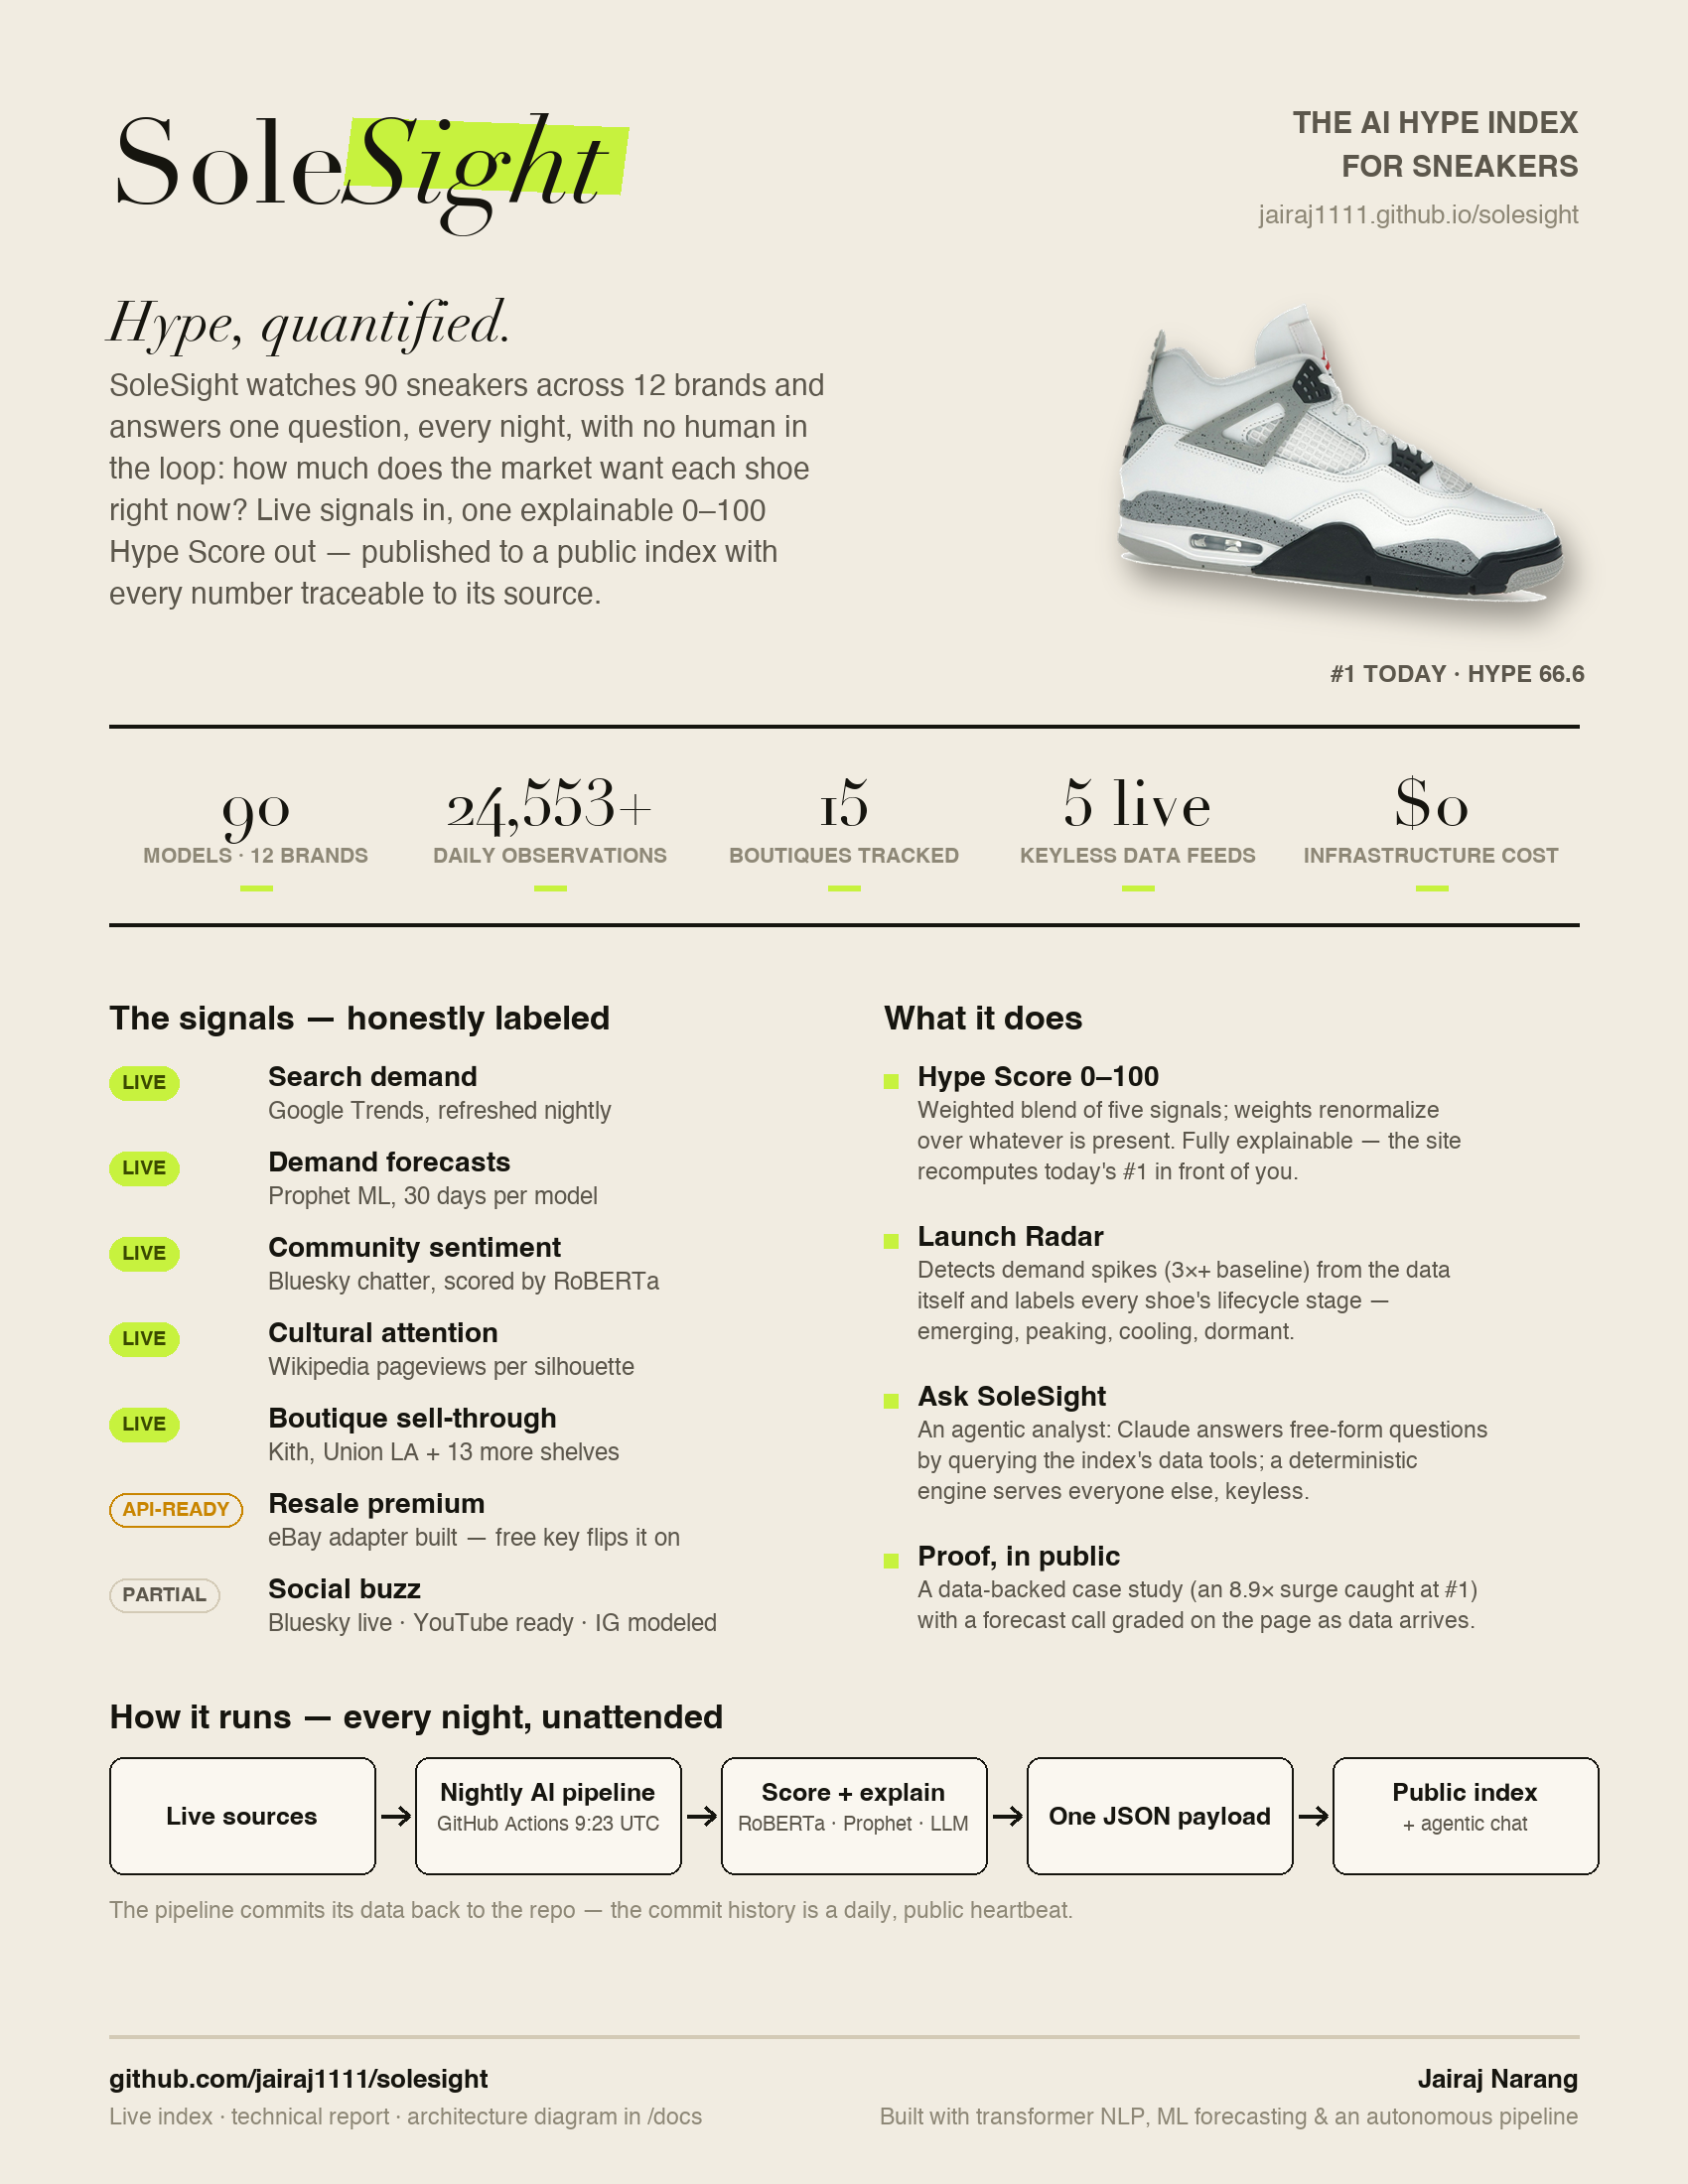
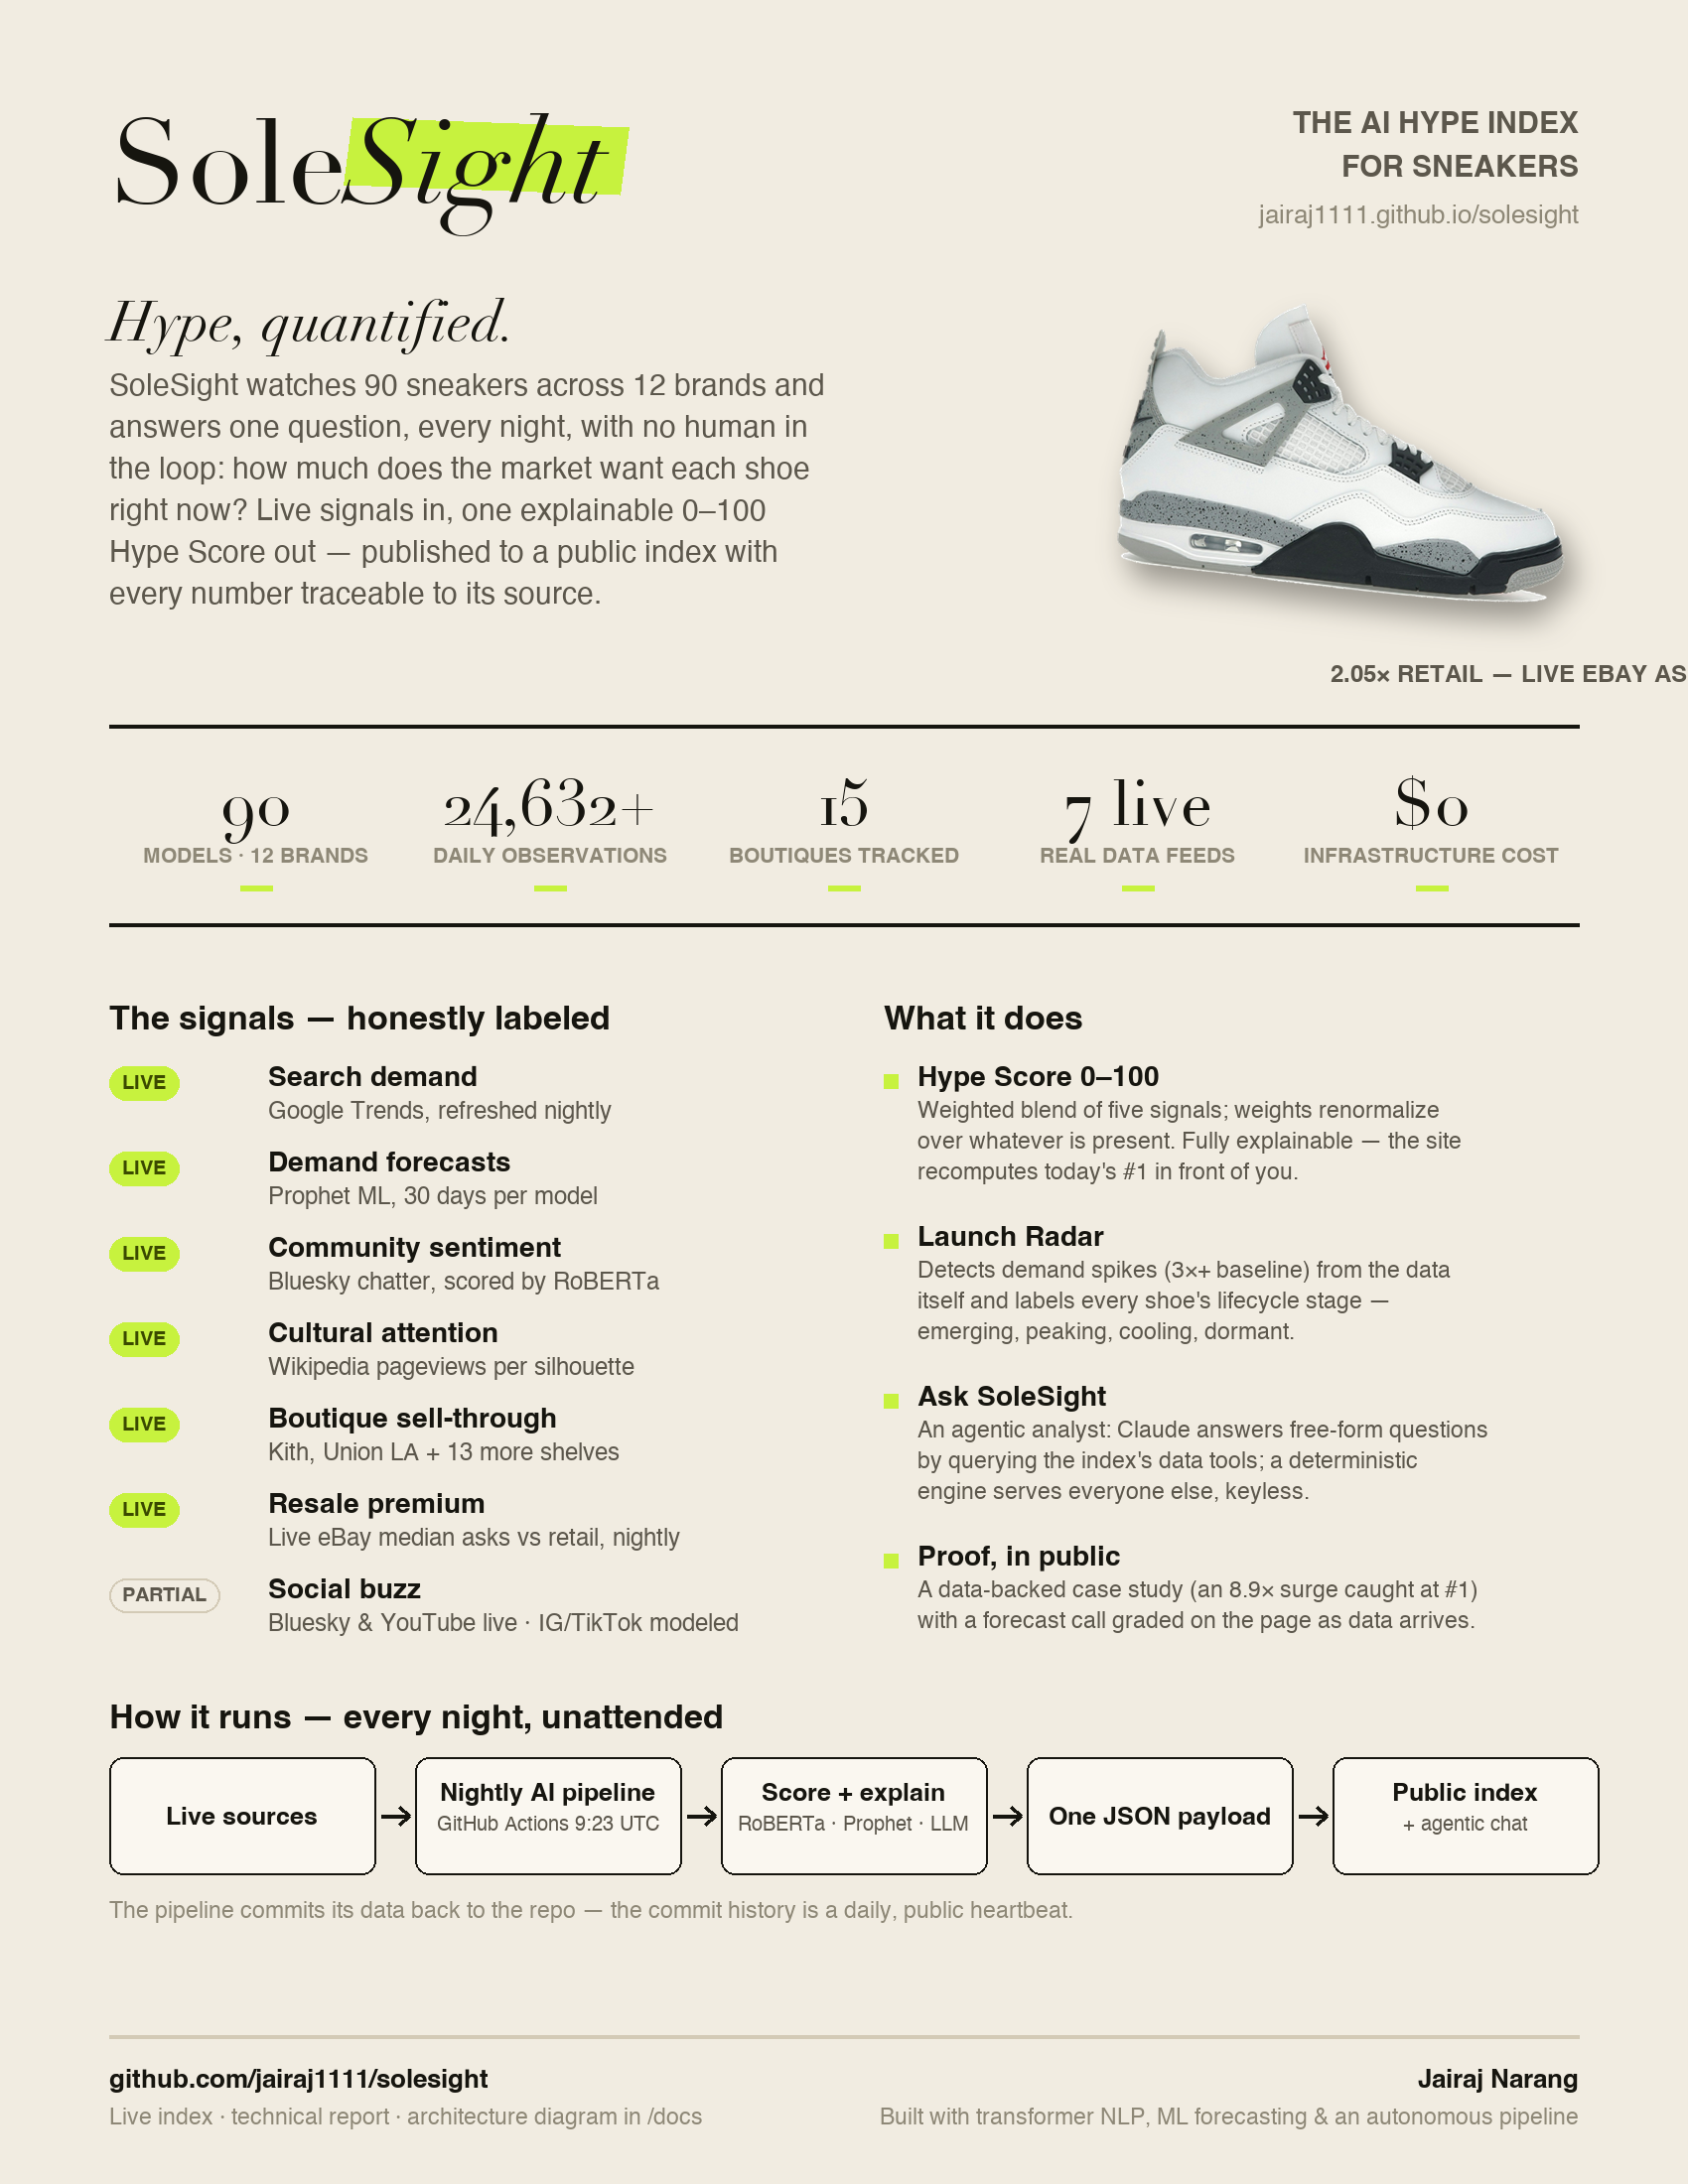
Resale + YouTube go LIVE: real eBay asks and YouTube buzz across all 90 models
First key-powered run: 90/90 real eBay median asks (Travis Scott AJ1 High
$637 vs $175 retail), 603 real YouTube buzz rows; synthetic rows for both
sources auto-purged. Method badges, footer, README table, one-pager and
flow diagram updated to match.

diff --git a/web/index.html b/web/index.html
@@ -149,9 +149,9 @@
         <span class="sig-badge modeled">modeled</span> synthesized from real
         search momentum pending a viable API.</p>
       <div class="method-grid">
-        <div class="method-card reveal"><span class="mc-w">26%</span><span class="sig-badge api">api-ready</span><h3>Resale premium</h3><p>Median sale vs. retail across marketplaces — the market's dollar vote.</p></div>
+        <div class="method-card reveal"><span class="mc-w">26%</span><span class="sig-badge live">live</span><h3>Resale premium</h3><p>Median ask vs. retail from <em>live eBay listings</em>, nightly — the market's dollar vote.</p></div>
         <div class="method-card reveal"><span class="mc-w">24%</span><span class="sig-badge live">live</span><h3>Search momentum</h3><p>Google Trends interest, last 14 days vs. the prior 14 — movement within each model's own history.</p></div>
-        <div class="method-card reveal"><span class="mc-w">20%</span><span class="sig-badge part">partial</span><h3>Social buzz</h3><p>Bluesky mentions <em>live &amp; keyless</em>; YouTube api-ready; IG/TikTok modeled.</p></div>
+        <div class="method-card reveal"><span class="mc-w">20%</span><span class="sig-badge part">partial</span><h3>Social buzz</h3><p>Bluesky and YouTube <em>live</em>; Instagram/TikTok modeled (no viable APIs).</p></div>
         <div class="method-card reveal"><span class="mc-w">18%</span><span class="sig-badge live">live</span><h3>Search intensity</h3><p>Current interest relative to <em>that model's own</em> historical peak — never compared across models.</p></div>
         <div class="method-card reveal"><span class="mc-w">12%</span><span class="sig-badge live">live</span><h3>Community mood</h3><p>Transformer sentiment over live Bluesky chatter; Reddit joins with a free key.</p></div>
       </div>
@@ -190,8 +190,8 @@
     <p>AI-powered sneaker &amp; streetwear consumer intelligence — transformer
       NLP, machine-learning forecasting, LLM-ready insight generation · an
       autonomous pipeline refreshes nightly: live Google&nbsp;Trends demand &amp;
-      forecasts, live Bluesky community chatter, live Wikipedia attention and
-      boutique availability · resale &amp; Reddit go live with free API keys ·
+      forecasts, live Bluesky &amp; YouTube chatter, live eBay resale asks, live Wikipedia
+      attention and boutique availability · Reddit joins with a free key ·
       IG/TikTok buzz is modeled.</p>
   </footer>
 

diff --git a/README.md b/README.md
@@ -131,10 +131,10 @@ Every stage degrades gracefully, so the platform is honest about what's real:
 | Community chatter + sentiment | Bluesky public search | **Live** (nightly) | nothing — no key needed |
 | Cultural attention | Wikipedia pageviews | **Live** (nightly) | nothing — no key needed |
 | Boutique availability | Shopify public product feeds (6 stores) | **Live**, best-effort | nothing — no key needed |
-| Social buzz (YouTube) | YouTube Data API v3 | api-ready | free key → `YOUTUBE_API_KEY` |
+| Social buzz (YouTube) | YouTube Data API v3 | **Live** (nightly) | done ✓ |
 | Demand forecast | Prophet on trends | **Live** (nightly) | nothing |
 | Community sentiment | Reddit API | Synthetic until keys set | free app at [reddit.com/prefs/apps](https://www.reddit.com/prefs/apps) → `REDDIT_CLIENT_ID` / `REDDIT_CLIENT_SECRET` / `REDDIT_USER_AGENT` |
-| Resale (ask-side) | eBay Browse API | Synthetic until keys set | free keyset at [developer.ebay.com](https://developer.ebay.com) → `EBAY_CLIENT_ID` / `EBAY_CLIENT_SECRET` |
+| Resale (ask-side) | eBay Browse API — median asks, decile-trimmed | **Live** (nightly) | done ✓ |
 | Resale (sold) | StockX | Stubbed | partner-program approval |
 | Social buzz | IG / TikTok / YouTube | Modeled | per-platform API tokens (stubs documented in `ingest/social.py`) |
 